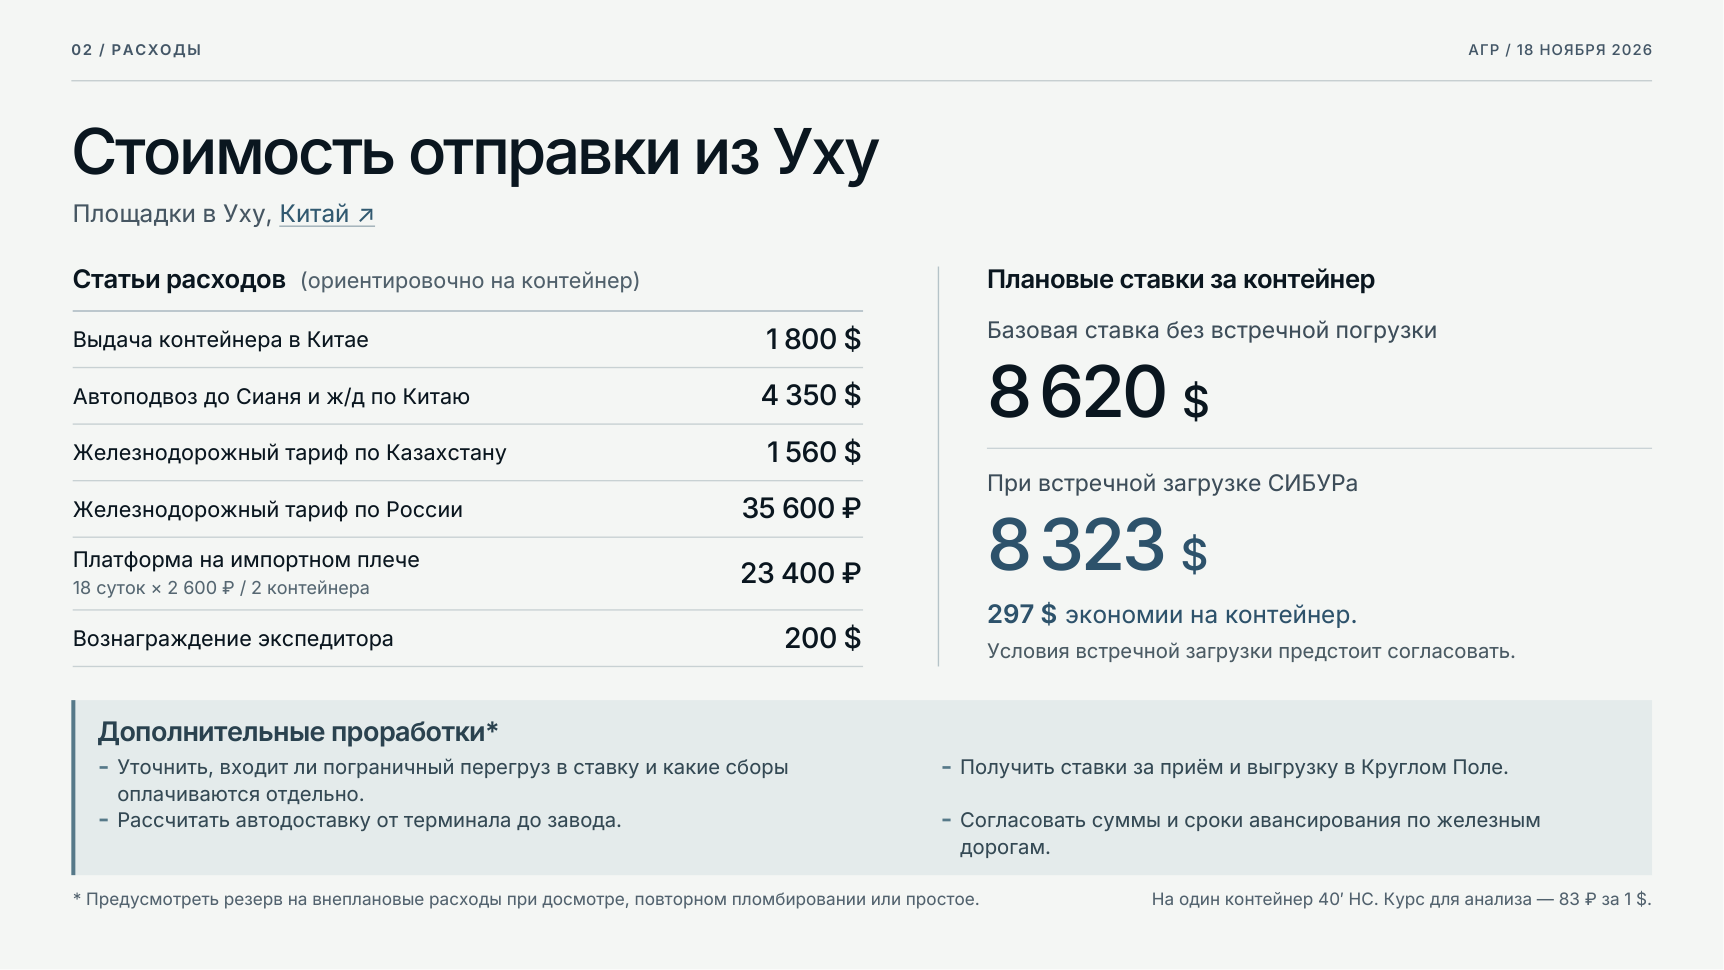
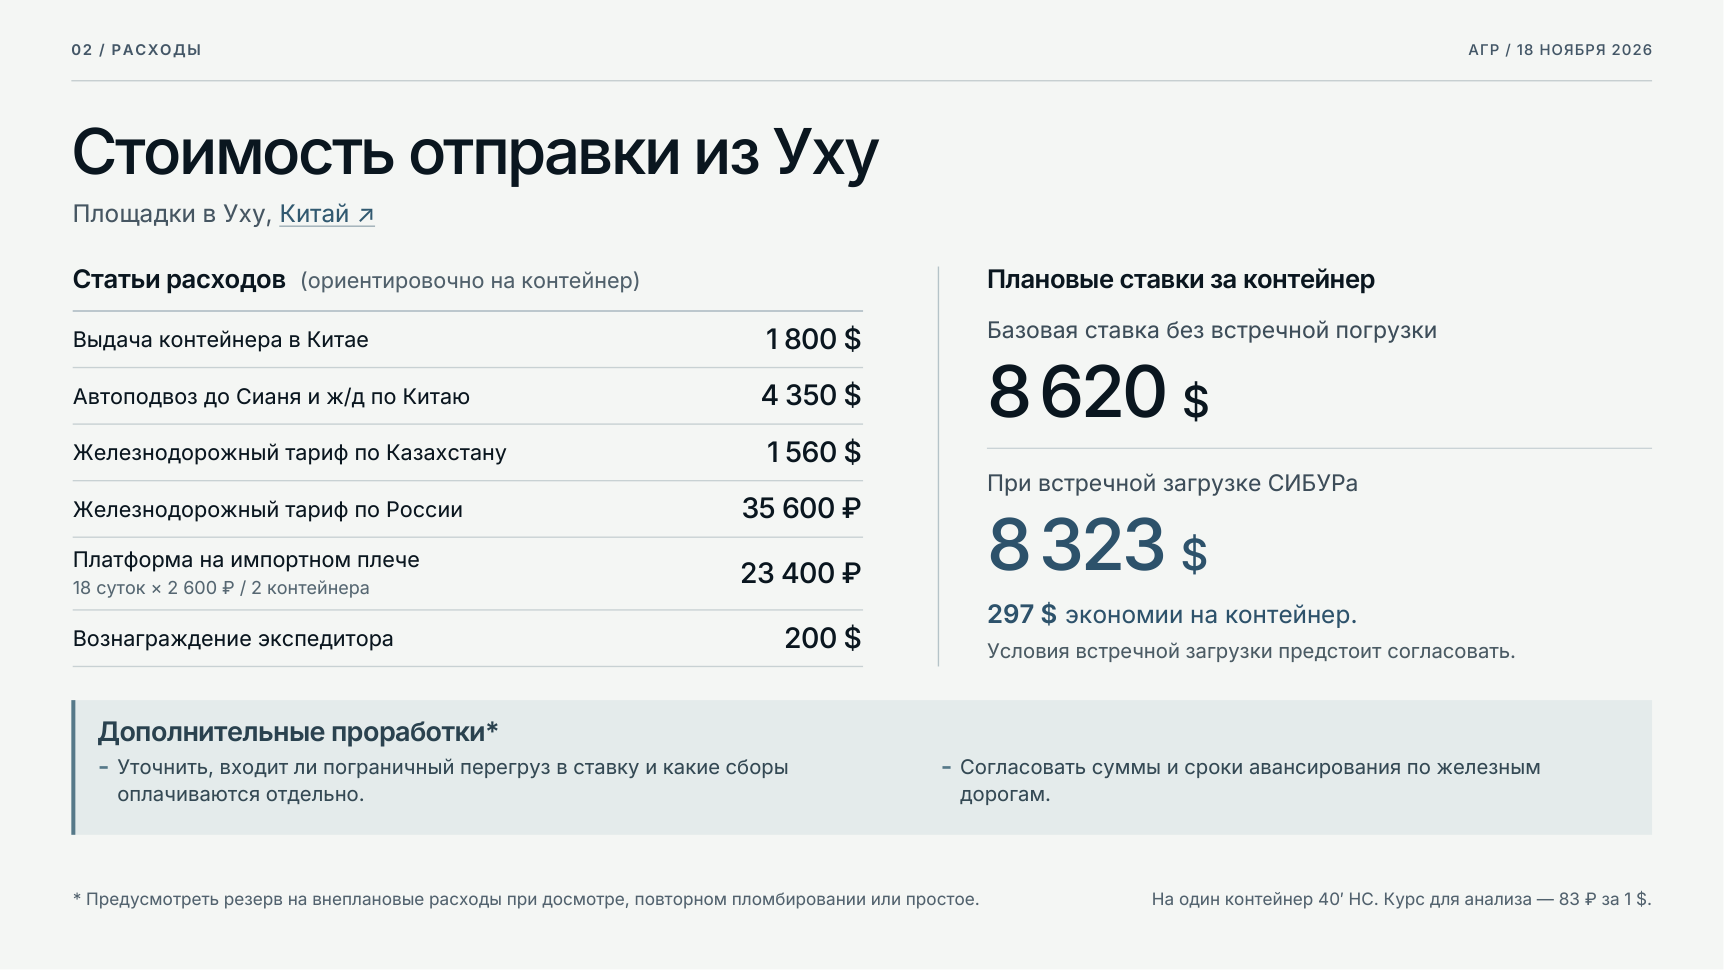
Оставить два пункта на слайде о расходах в Круглое Поле

Changed region(s): [[0.5534, 0.7732, 0.8915, 0.8969], [0.0615, 0.8351, 0.3689, 0.866]]

diff --git a/site/krugloe-pole/index.html b/site/krugloe-pole/index.html
@@ -200,8 +200,6 @@ a {color:inherit} a:focus-visible,summary:focus-visible {outline:3px solid #5497
           <h3 id="open-costs-title">Дополнительные проработки<sup>*</sup></h3>
           <ul>
             <li>Уточнить, входит ли пограничный перегруз в ставку и какие сборы оплачиваются отдельно.</li>
-            <li>Получить ставки за приём и выгрузку в Круглом Поле.</li>
-            <li>Рассчитать автодоставку от терминала до завода.</li>
             <li>Согласовать суммы и сроки авансирования по железным дорогам.</li>
           </ul>
         </aside>
